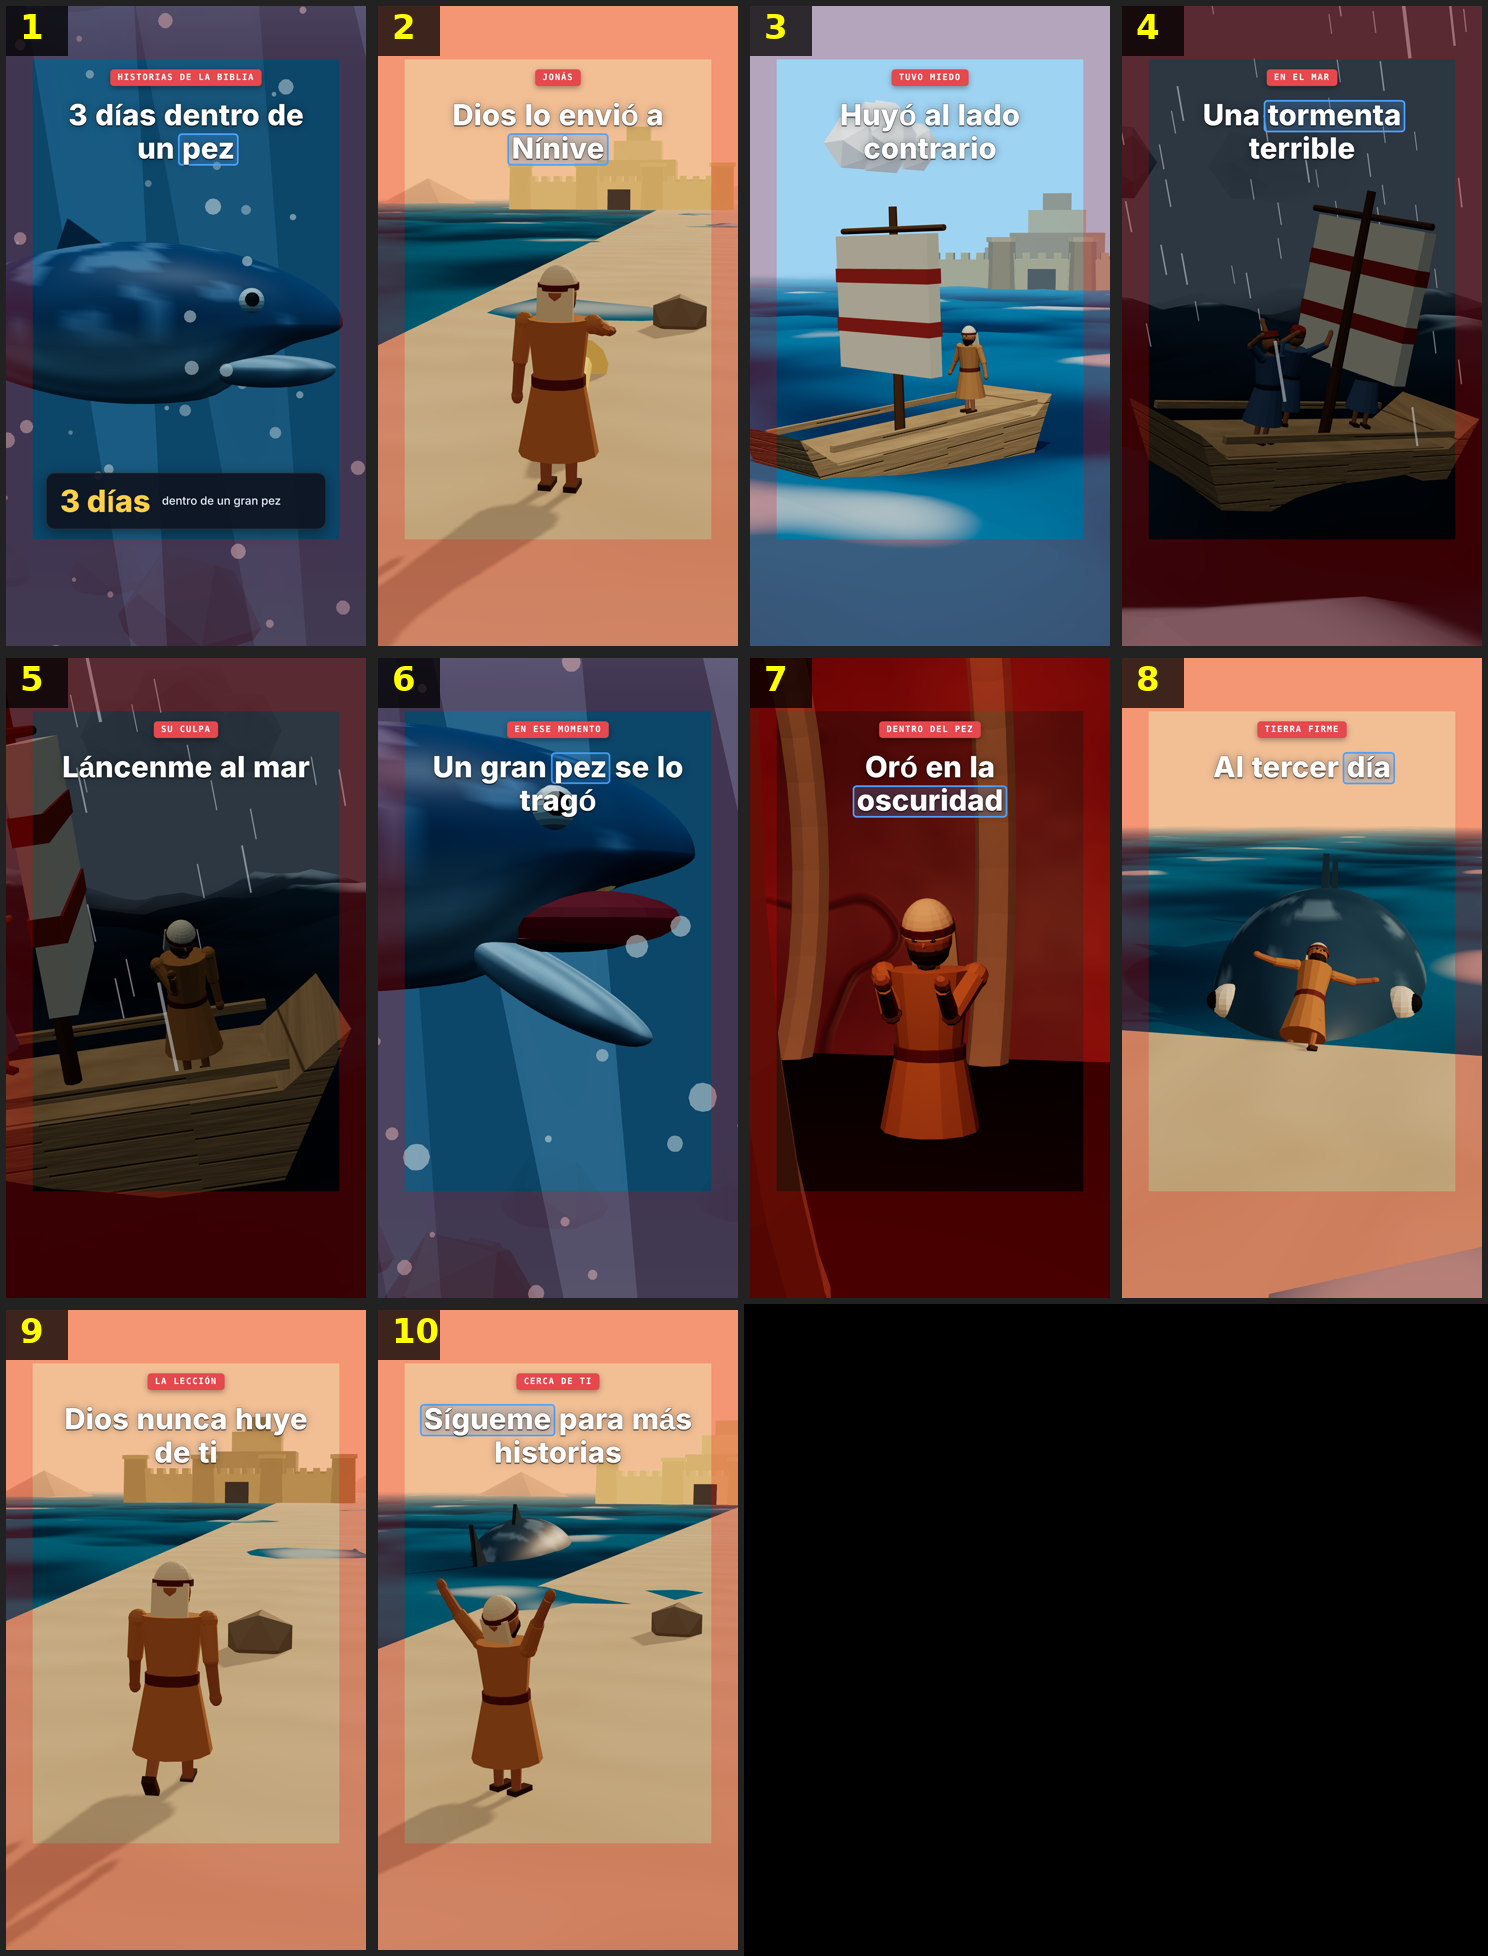
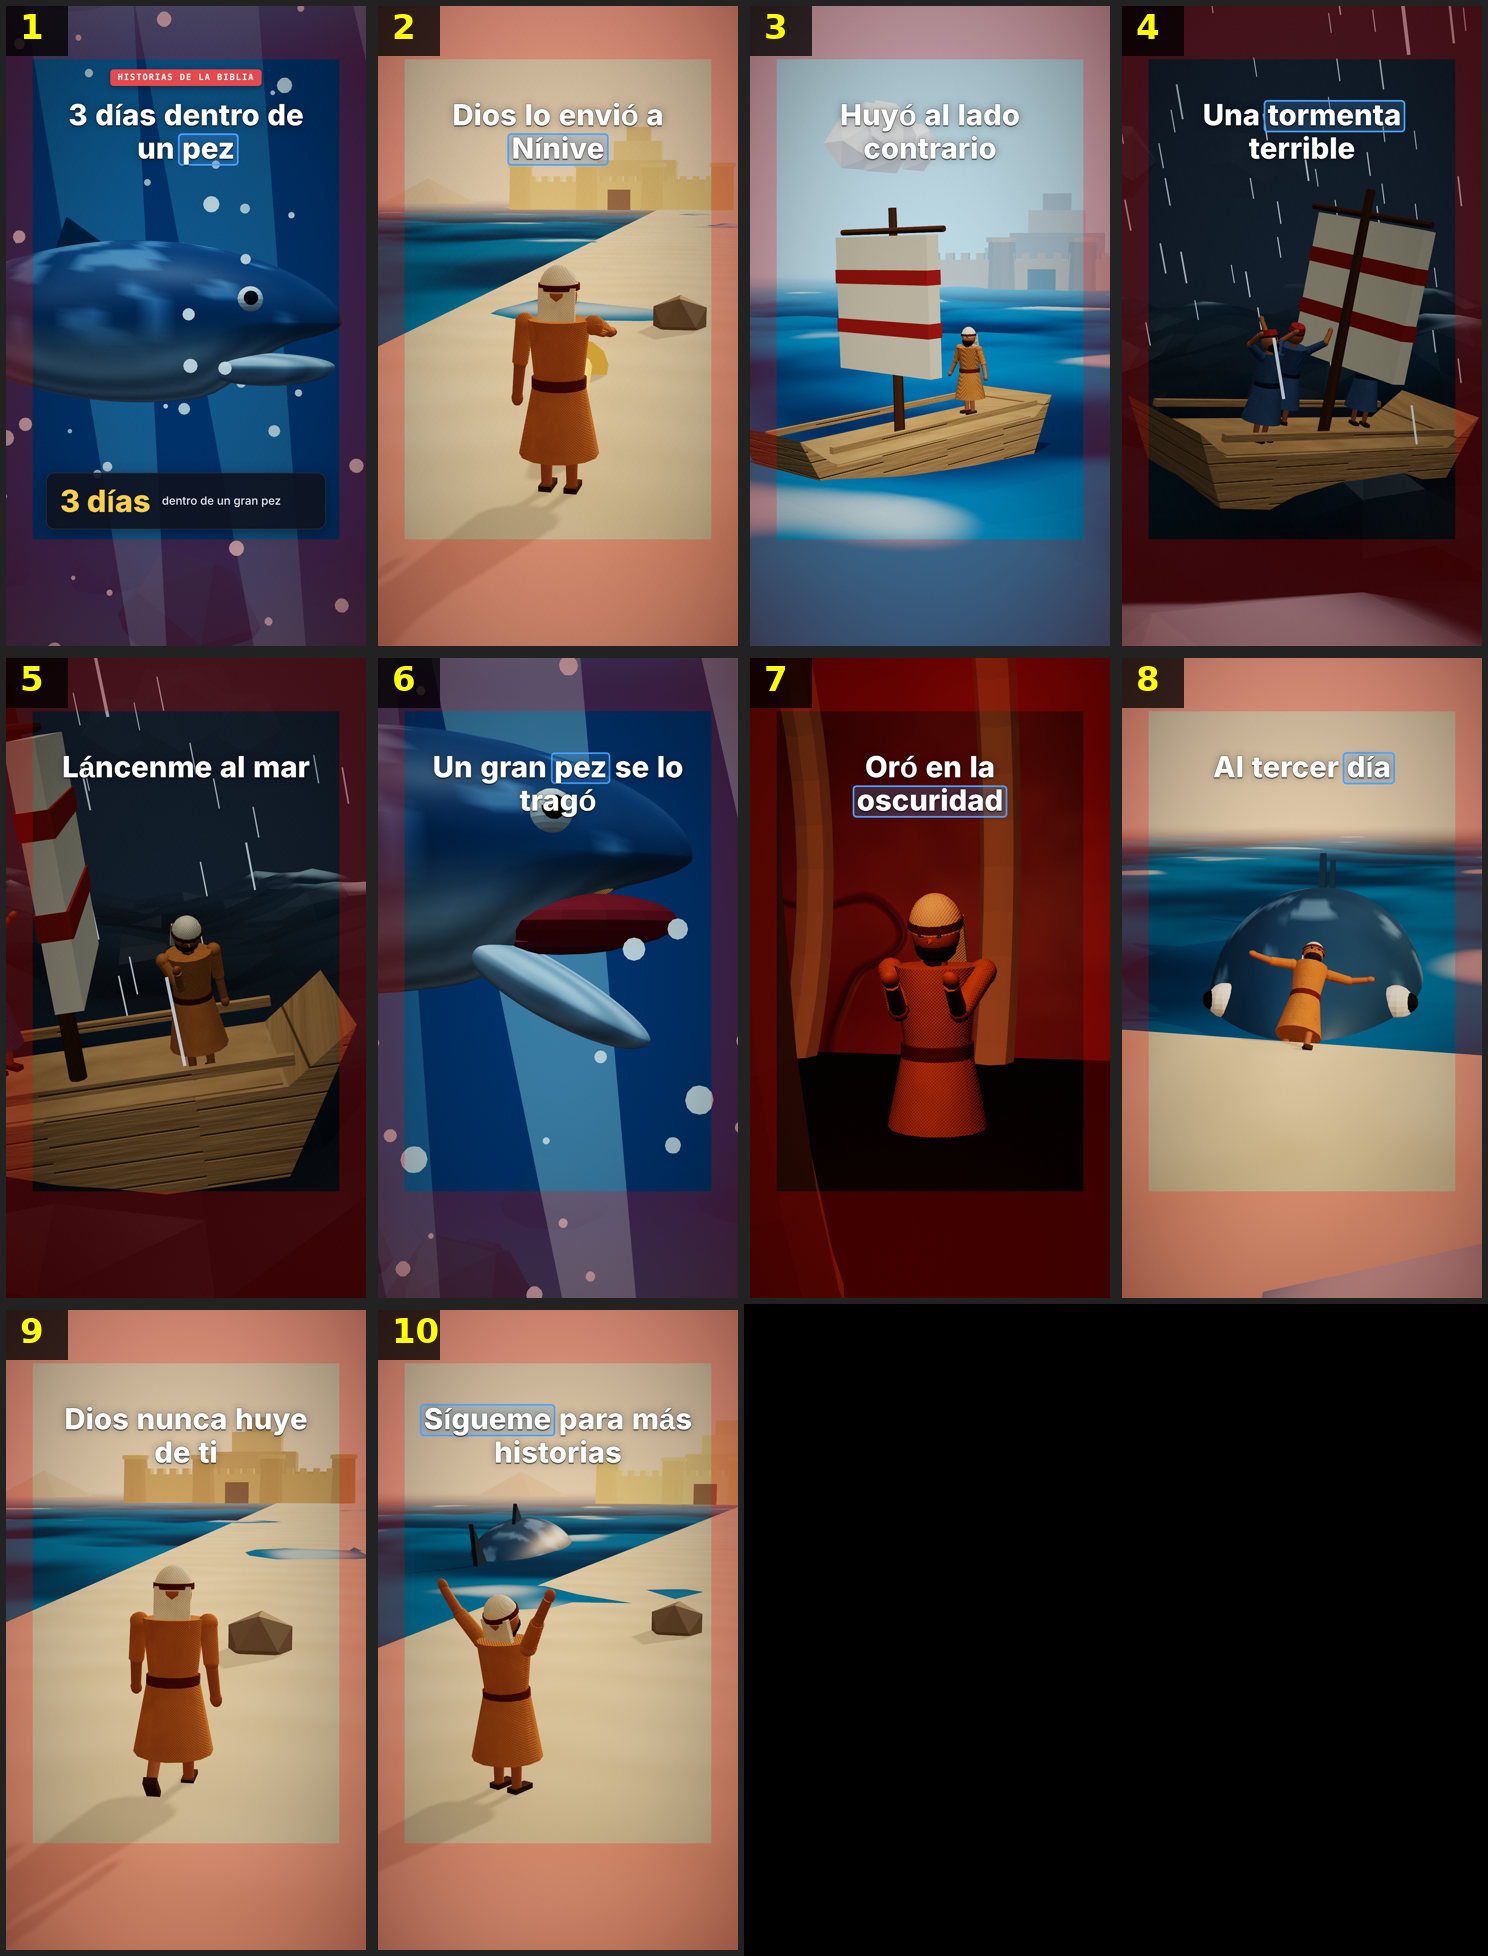
Jonah short: film finish, cloth texture, idle life, louder music, cleaner titles
Claude-Session: https://claude.ai/code/session_01F2TMio2Zt2JEHqxRa1LHY5

diff --git a/videos/jonas/world3d.ts b/videos/jonas/world3d.ts
@@ -11,6 +11,29 @@ const JN = {
 };
 let jnUid = 0;
 const jnBg = (w: World) => w.scene.background as THREE.Color;
+const JN_NOW = { t: 0 };   // the frame being drawn (set by jnCine): idle life of the characters
+// smooth materials for the people: woven cloth and soft skin (less "toy", more film)
+const JN_CLOTH = new Map<string, THREE.MeshStandardMaterial>();
+const jnCloth = (c: string) => { let m = JN_CLOTH.get(c); if (!m) { m = p3Shader(new THREE.MeshStandardMaterial({ color: c, roughness: 0.92 }), 'jn-cloth', { bump: 0.006, color: `
+  float wv = sin(p3Pos.x * 320.0) * sin(p3Pos.y * 320.0), n = p3F(p3Pos.xy * 9.0 + p3Pos.z * 6.0), fold = p3F(vec2(atan(p3Pos.z, p3Pos.x) * 3.0, p3Pos.y * 2.5));
+  diffuseColor.rgb *= 0.8 + 0.14 * n + 0.04 * wv + 0.12 * fold; p3Ht = wv * 0.25 + fold * 0.8;` }); JN_CLOTH.set(c, m); } return m; };
+const jnSkin = () => p3Std(JN.skin, 0.62);
+// the film finish of every shot: grade (contrast, saturation), vignette and grain, reflections from a soft studio light,
+// and a slow handheld drift of the camera
+const jnCine = (shot: (w: World) => (t: number) => void, f: { sat?: number; curve?: number; vignette?: number; grain?: number; drift?: number; env?: number } = {}) => (w: World) => {
+  const r = w.renderer, composer = new THREE.EffectComposer(r, new THREE.WebGLRenderTarget(1080, 1920, { type: THREE.HalfFloatType, samples: 4 }));
+  composer.setPixelRatio(1); composer.setSize(1080, 1920);
+  composer.addPass(new THREE.RenderPass(w.scene, w.camera)); composer.addPass(new THREE.OutputPass());
+  const grade = new THREE.ShaderPass({ ...P3_GRADE, uniforms: { tDiffuse: { value: null }, uT: { value: 0 }, uSat: { value: f.sat ?? 1.1 }, uCurve: { value: f.curve ?? 0.38 }, uVig: { value: f.vignette ?? 0.85 }, uGrain: { value: f.grain ?? 0.03 }, uRed: { value: 0 }, uGray: { value: 0 } } });
+  composer.addPass(grade);
+  w.scene.environment = p3Env(r); (w.scene as any).environmentIntensity = f.env ?? 0.1; if (!(f.env ?? 0.1)) w.scene.environment = null;
+  w.present = () => composer.render();
+  const pose = shot(w), d = f.drift ?? 0.06;
+  return (t: number) => {
+    JN_NOW.t = t; pose(t); grade.uniforms.uT.value = Math.round(t * 30);
+    w.camera.position.x += Math.sin(t * 0.7) * d + Math.sin(t * 1.9) * d * 0.3; w.camera.position.y += Math.sin(t * 0.9 + 1) * d * 0.7; w.camera.updateMatrixWorld(true);
+  };
+};
 // deterministic camera shake
 const jnShake = (t: number, a: number): Vec3 => [Math.sin(t * 13.1) * a + Math.sin(t * 7.3) * a * 0.6, Math.sin(t * 11.7 + 1) * a * 0.7, Math.sin(t * 9.4 + 2) * a * 0.5];
 
@@ -46,51 +69,56 @@ const jnSteps = (t: number, steps: [number, JnPose | ((t: number) => JnPose)][],
 };
 
 const jnPerson = (look: JnLook) => {
+  const robeM = jnCloth(look.robe), sashM = jnCloth(look.sash), clothM = jnCloth(look.cloth || look.robe), skinM = jnSkin(), eyes: THREE.Object3D[] = [];
   const root = p3Group(), pelvis = p3Group(), torso = p3Group(), head = p3Group();
   root.add(pelvis); pelvis.add(torso);
-  pelvis.add(p3Mesh(p3Cyl(0.22, 0.34, 0.62, 14), look.robe, { p: [0, -0.27, 0] }));                      // skirt of the robe
-  torso.add(p3Mesh(p3Cyl(0.26, 0.2, 0.56, 14), look.robe, { p: [0, 0.28, 0] }));                         // chest wider than the waist
-  torso.add(p3Mesh(p3Cyl(0.228, 0.228, 0.09, 14), look.sash, { p: [0, 0.04, 0] }));                      // sash
-  torso.add(p3Mesh(p3Cyl(0.06, 0.075, 0.14, 8), JN.skin, { p: [0, 0.6, 0] }));                           // neck
+  pelvis.add(p3Mesh(p3Cyl(0.22, 0.34, 0.62, 14), robeM, { p: [0, -0.27, 0] }));                      // skirt of the robe
+  torso.add(p3Mesh(p3Cyl(0.26, 0.2, 0.56, 14), robeM, { p: [0, 0.28, 0] }));                         // chest wider than the waist
+  torso.add(p3Mesh(p3Cyl(0.228, 0.228, 0.09, 14), sashM, { p: [0, 0.04, 0] }));                      // sash
+  torso.add(p3Mesh(p3Cyl(0.06, 0.075, 0.14, 8), skinM, { p: [0, 0.6, 0] }));                           // neck
   head.position.y = 0.76; torso.add(head);
-  head.add(p3Mesh(p3Ball(0.15, 16, 12), JN.skin, { s: [1, 1.12, 1] }));
+  head.add(p3Mesh(p3Ball(0.15, 16, 12), skinM, { s: [1, 1.12, 1] }));
   head.add(p3Mesh(p3Ball(0.135, 12, 8), JN.hair, { p: [0, -0.07, 0.035], s: [1, 0.85, 0.85] }));        // beard
   head.add(p3Mesh(p3Cone(0.07, 0.14, 6), JN.hair, { p: [0, -0.2, 0.07], r: [Math.PI + 0.3, 0, 0] }));    // beard tip
-  head.add(p3Mesh(p3Cone(0.028, 0.07, 5), JN.skin, { p: [0, 0.0, 0.16], r: [Math.PI / 2, 0, 0] }));      // nose
+  head.add(p3Mesh(p3Cone(0.028, 0.07, 5), skinM, { p: [0, 0.0, 0.16], r: [Math.PI / 2, 0, 0] }));      // nose
   for (const s of [1, -1]) {
-    head.add(p3Mesh(p3Ball(0.024, 8, 6), '#1b1410', { p: [s * 0.055, 0.04, 0.135] }));                     // eyes
+    eyes.push(head.add(p3Mesh(p3Ball(0.024, 8, 6), '#1b1410', { p: [s * 0.055, 0.04, 0.135] })).children.at(-1)!);                     // eyes
     head.add(p3Mesh(p3Box(0.06, 0.016, 0.02), JN.hair, { p: [s * 0.056, 0.085, 0.138], r: [0, 0, s * 0.12] }));   // brows
   }
   if (look.cloth) {
-    head.add(p3Mesh(new THREE.SphereGeometry(0.168, 16, 8, 0, Math.PI * 2, 0, Math.PI * 0.5), look.cloth, { p: [0, 0.035, 0], s: [1, 1.25, 1] }));
-    head.add(p3Mesh(p3Cyl(0.172, 0.172, 0.05, 16), look.sash, { p: [0, 0.07, 0] }));
-    head.add(p3Mesh(p3Box(0.3, 0.34, 0.05), look.cloth, { p: [0, -0.1, -0.13], r: [0.15, 0, 0] }));     // cloth over the nape
+    head.add(p3Mesh(new THREE.SphereGeometry(0.168, 16, 8, 0, Math.PI * 2, 0, Math.PI * 0.5), clothM, { p: [0, 0.035, 0], s: [1, 1.25, 1] }));
+    head.add(p3Mesh(p3Cyl(0.172, 0.172, 0.05, 16), sashM, { p: [0, 0.07, 0] }));
+    head.add(p3Mesh(p3Box(0.3, 0.34, 0.05), clothM, { p: [0, -0.1, -0.13], r: [0.15, 0, 0] }));     // cloth over the nape
   } else {
     head.add(p3Mesh(new THREE.SphereGeometry(0.158, 14, 8, 0, Math.PI * 2, 0, Math.PI * 0.42), JN.hair, { p: [0, 0.02, 0], s: [1, 1.15, 1] }));
     if (look.cap) head.add(p3Mesh(p3Cyl(0.13, 0.155, 0.1, 12), look.cap, { p: [0, 0.15, 0] }));
   }
   const arm = (s: number) => {
     const sh = p3Group(), el = p3Group(); sh.position.set(s * 0.29, 0.52, 0); torso.add(sh);
-    sh.add(p3Mesh(p3Ball(0.085, 10, 8), look.robe));
-    sh.add(p3Mesh(p3Cyl(0.078, 0.066, 0.34, 10), look.robe, { p: [0, -0.17, 0] }));
+    sh.add(p3Mesh(p3Ball(0.085, 10, 8), robeM));
+    sh.add(p3Mesh(p3Cyl(0.078, 0.066, 0.34, 10), robeM, { p: [0, -0.17, 0] }));
     el.position.y = -0.34; sh.add(el);
-    el.add(p3Mesh(p3Ball(0.06, 8, 6), JN.skin));
-    el.add(p3Mesh(p3Cyl(0.052, 0.044, 0.28, 8), JN.skin, { p: [0, -0.14, 0] }));
-    el.add(p3Mesh(p3Ball(0.062, 8, 6), JN.skin, { p: [0, -0.31, 0.01], s: [0.85, 1.15, 0.7] }));
+    el.add(p3Mesh(p3Ball(0.06, 8, 6), skinM));
+    el.add(p3Mesh(p3Cyl(0.052, 0.044, 0.28, 8), skinM, { p: [0, -0.14, 0] }));
+    el.add(p3Mesh(p3Ball(0.062, 8, 6), skinM, { p: [0, -0.31, 0.01], s: [0.85, 1.15, 0.7] }));
     return { sh, el };
   };
   const leg = (s: number) => {
     const hip = p3Group(), kn = p3Group(); hip.position.set(s * 0.11, 0, 0); pelvis.add(hip);
-    hip.add(p3Mesh(p3Cyl(0.085, 0.068, 0.45, 10), look.robe, { p: [0, -0.225, 0] }));
+    hip.add(p3Mesh(p3Cyl(0.085, 0.068, 0.45, 10), robeM, { p: [0, -0.225, 0] }));
     kn.position.y = -0.45; hip.add(kn);
-    kn.add(p3Mesh(p3Ball(0.062, 8, 6), JN.skin));
-    kn.add(p3Mesh(p3Cyl(0.058, 0.046, 0.42, 8), JN.skin, { p: [0, -0.21, 0] }));
+    kn.add(p3Mesh(p3Ball(0.062, 8, 6), skinM));
+    kn.add(p3Mesh(p3Cyl(0.058, 0.046, 0.42, 8), skinM, { p: [0, -0.21, 0] }));
     kn.add(p3Mesh(p3Box(0.11, 0.06, 0.25), JN.sandal, { p: [0, -0.44, 0.05] }));
     return { hip, kn };
   };
   const L = arm(1), R = arm(-1), LL = leg(1), RL = leg(-1);
   const pose = (p: JnPose) => {
     pelvis.position.y = 0.95 + p.lift; torso.rotation.x = p.lean; head.rotation.x = p.head;
+    // life: breathing, a slow look around and a blink every few seconds (from the frame's time)
+    const t = JN_NOW.t + root.id * 1.7;
+    torso.scale.set(1 + 0.01 * Math.sin(t * 2.3), 1 + 0.018 * Math.sin(t * 2.3), 1 + 0.012 * Math.sin(t * 2.3)); head.rotation.y = 0.12 * Math.sin(t * 0.55) + 0.05 * Math.sin(t * 1.3);
+    const blink = (t * 0.29) % 1 < 0.035 ? 0.15 : 1; eyes.forEach((e) => { e.scale.y = blink; });
     LL.hip.rotation.x = p.thL; RL.hip.rotation.x = p.thR; LL.kn.rotation.x = p.knL; RL.kn.rotation.x = p.knR;
     L.sh.rotation.set(p.shLx, 0, p.shLz); R.sh.rotation.set(p.shRx, 0, -p.shRz); L.el.rotation.x = p.elL; R.el.rotation.x = p.elR;
   };
@@ -469,14 +497,14 @@ defineVisuals({
     return (t) => { const lt = t - w.s.t0; set.pose(t); f.pose(t, lt < 1 ? 0 : lt < 2 ? 1 : 0.5); f.light.intensity = lt > 2 ? 20 : 0;
       const a = lt < 1 ? 1.4 : lt < 2 ? 0.9 : 0.35; w.look([Math.sin(a) * 17, 0.5, Math.cos(a) * 17], [0.5, -0.3, 0]); };
   } },
-  'test-hook': { bg: JN.under, build: jnShotHook },
-  'test-call': { bg: JN.dawn, build: jnShotCall },
-  'test-flee': { bg: JN.sky, build: jnShotFlee },
-  'test-storm': { bg: JN.sky, build: jnShotStorm },
-  'test-guilt': { bg: JN.stormSky, build: jnShotGuilt },
-  'test-swallow': { bg: JN.under, build: jnShotSwallow },
-  'test-belly': { bg: JN.bellyBg, build: jnShotBelly },
-  'test-shore': { bg: JN.dawn, build: jnShotShore },
-  'test-lesson': { bg: JN.dawn, build: jnShotLesson },
-  'test-follow': { bg: JN.dawn, build: jnShotFollow },
+  'test-hook': { bg: JN.under, build: jnCine(jnShotHook) },
+  'test-call': { bg: JN.dawn, build: jnCine(jnShotCall) },
+  'test-flee': { bg: JN.sky, build: jnCine(jnShotFlee) },
+  'test-storm': { bg: JN.sky, build: jnCine(jnShotStorm) },
+  'test-guilt': { bg: JN.stormSky, build: jnCine(jnShotGuilt) },
+  'test-swallow': { bg: JN.under, build: jnCine(jnShotSwallow) },
+  'test-belly': { bg: JN.bellyBg, build: jnCine(jnShotBelly, { env: 0, vignette: 1.1 }) },
+  'test-shore': { bg: JN.dawn, build: jnCine(jnShotShore) },
+  'test-lesson': { bg: JN.dawn, build: jnCine(jnShotLesson) },
+  'test-follow': { bg: JN.dawn, build: jnCine(jnShotFollow) },
 });

diff --git a/videos/jonas/visuals3d.ts b/videos/jonas/visuals3d.ts
@@ -1,13 +1,13 @@
 // Scenes of "Jonás y el gran pez" (3D): each one only assembles the world built and tested in world3d.ts.
 defineVisuals({
-  hook: { bg: JN.under, build: jnShotHook },
-  call: { bg: JN.dawn, build: jnShotCall },
-  flee: { bg: JN.sky, build: jnShotFlee },
-  storm: { bg: JN.sky, build: jnShotStorm },
-  guilt: { bg: JN.stormSky, build: jnShotGuilt },
-  swallow: { bg: JN.under, build: jnShotSwallow },
-  belly: { bg: JN.bellyBg, build: jnShotBelly },
-  shore: { bg: JN.dawn, build: jnShotShore },
-  lesson: { bg: JN.dawn, build: jnShotLesson },
-  follow: { bg: JN.dawn, build: jnShotFollow },
+  hook: { bg: JN.under, build: jnCine(jnShotHook) },
+  call: { bg: JN.dawn, build: jnCine(jnShotCall) },
+  flee: { bg: JN.sky, build: jnCine(jnShotFlee) },
+  storm: { bg: JN.sky, build: jnCine(jnShotStorm) },
+  guilt: { bg: JN.stormSky, build: jnCine(jnShotGuilt) },
+  swallow: { bg: JN.under, build: jnCine(jnShotSwallow) },
+  belly: { bg: JN.bellyBg, build: jnCine(jnShotBelly, { env: 0, vignette: 1.1 }) },
+  shore: { bg: JN.dawn, build: jnCine(jnShotShore) },
+  lesson: { bg: JN.dawn, build: jnCine(jnShotLesson) },
+  follow: { bg: JN.dawn, build: jnCine(jnShotFollow) },
 });
